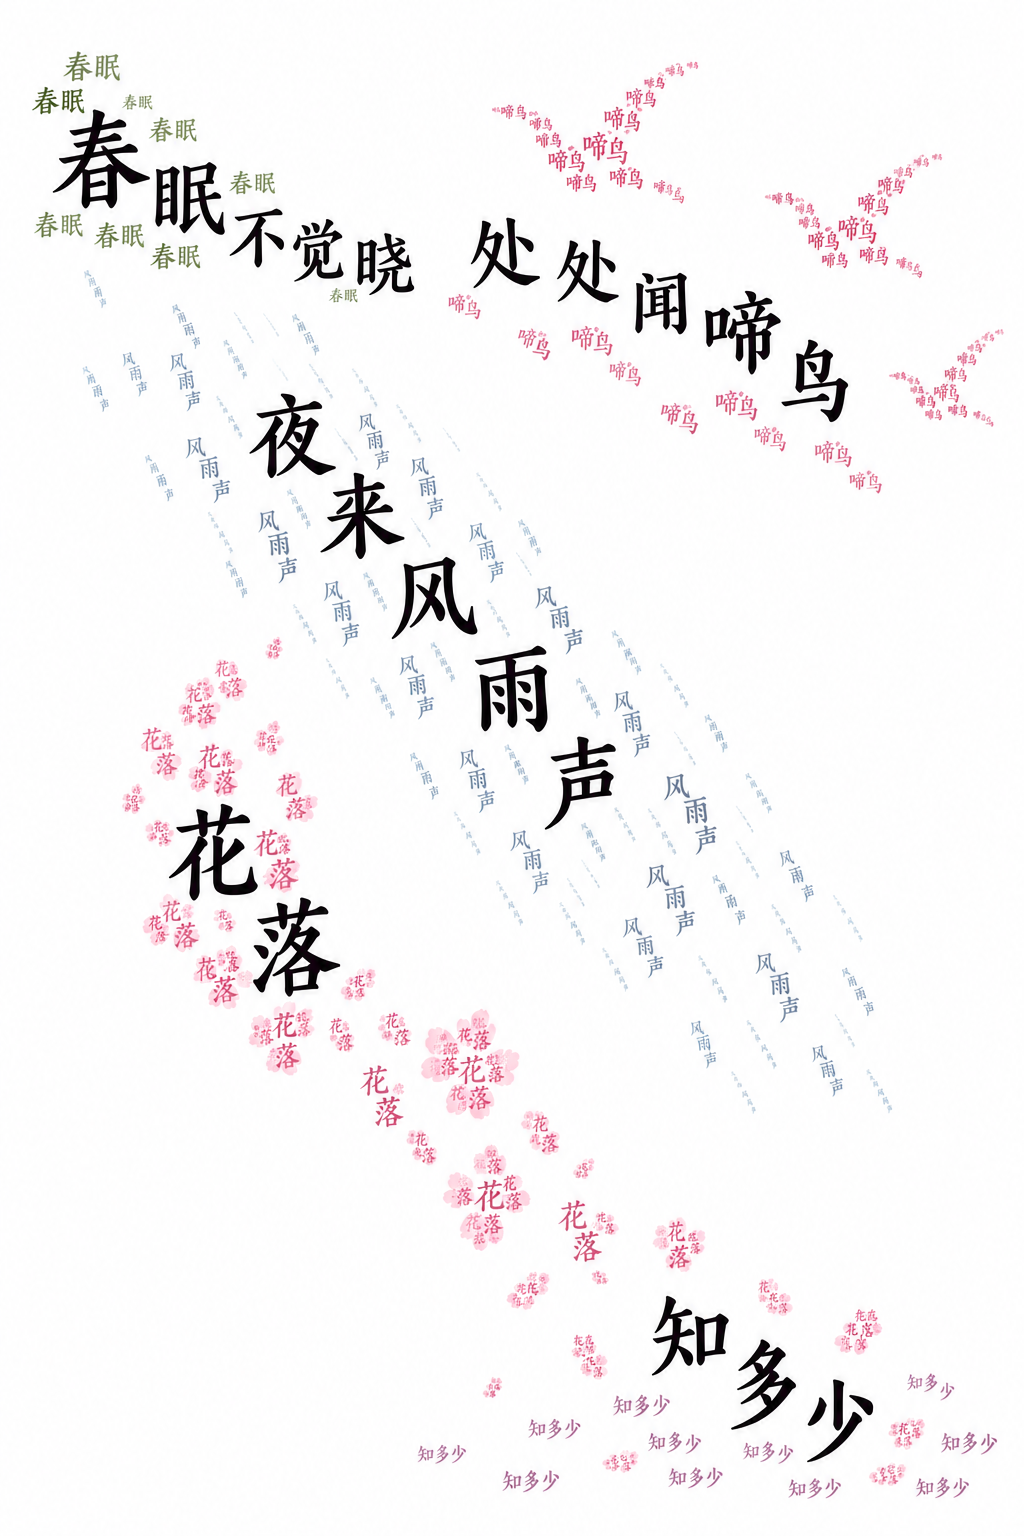
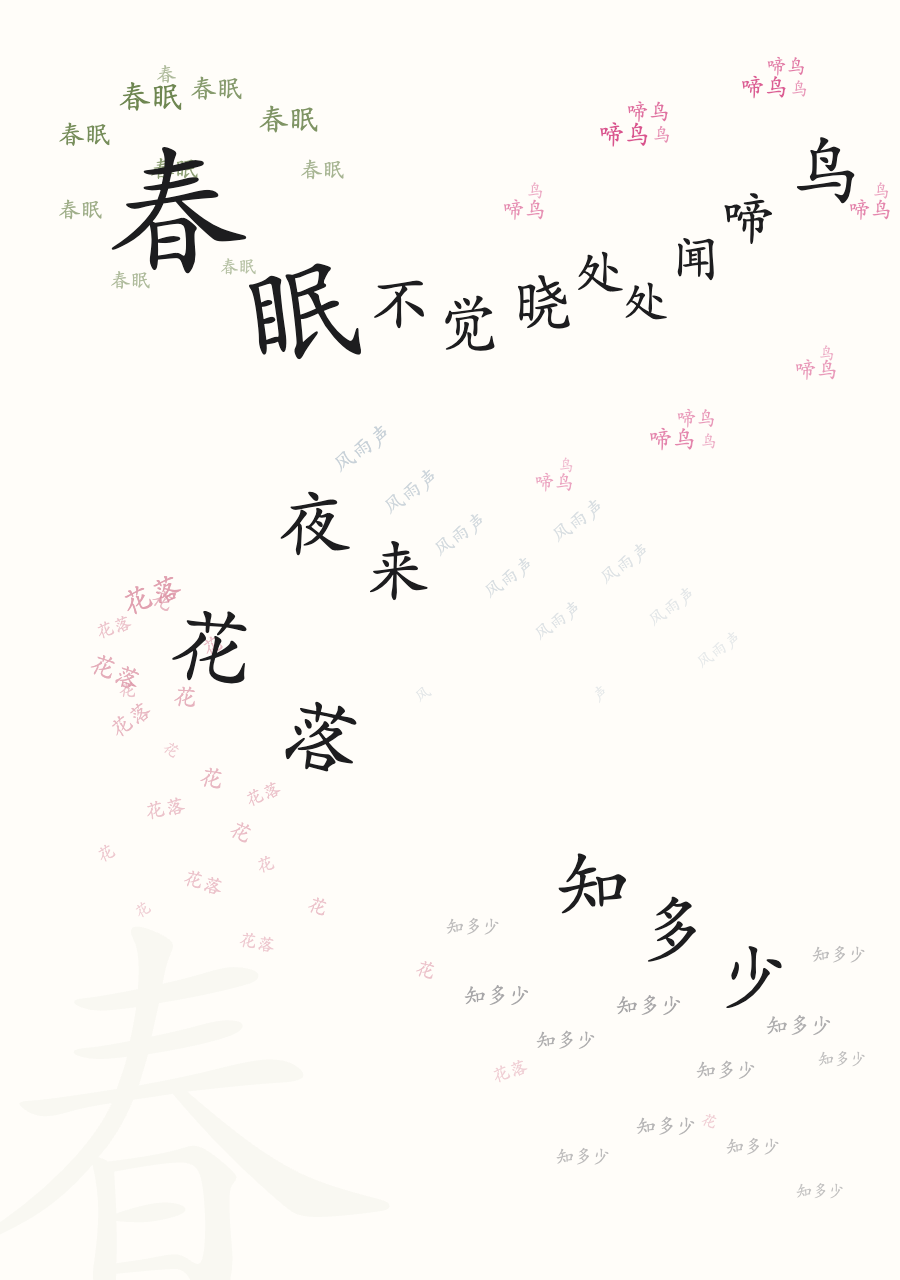
Replace README examples with artwork exported from supplied HTML

diff --git a/README.md b/README.md
@@ -31,31 +31,29 @@ git clone https://github.com/zhangswings/poetry-typography-skill.git ~/.codex/sk
 
 ## 参考案例
 
-以下是本次五首诗试作中选出的三个较好的构图版本，均由内置 imagegen 生成。**这些是构图参考，不是已通过全部检查的教学定稿。** 缩小后的纹理字难以逐字核对，使用前应查看原图；模型写进提示词的要求不等于图片已经满足要求。
+以下三张图片直接从[《诗词文字画·色彩与字群》HTML](examples/诗词文字画-色彩与字群.html) 中的 SVG 导出，保留文件里的配色、字群和布局。它们是构图参考，仍需按四项标准检查阅读路径与意象用字。
 
 ### 《春晓》· 孟浩然
 
 春眠不觉晓，处处闻啼鸟。夜来风雨声，花落知多少。
 
-鸟鸣散在上方，风雨斜穿画面，落花向下弯曲，“知多少”留在空白处。大字提供全文读序，较浅的小字重复对应意象。
+按字群区分春眠、鸟鸣、风雨和落花，用色彩与文字走向组织画面。
 
 ![春晓文字画](examples/chun-xiao.png)
 
-### 《江雪》· 柳宗元
+### 《江雪》· 单字领袖版
 
 千山鸟飞绝，万径人踪灭。孤舟蓑笠翁，独钓寒江雪。
 
-“千山”起伏成峰，“万径”伸向远处，山径与孤舟之间留出大片空白。没有把“鸟飞绝”画成飞鸟群。仍需重点检查“孤舟→蓑笠翁”的衔接是否足够清楚，以及极小纹理是否混入非文字笔画。
+用较大的主字引导阅读，以较小的对应字群构成山、径、舟和江面。
 
-![江雪文字画](examples/jiang-xue.png)
+![江雪单字领袖版](examples/jiang-xue-leader.png)
 
-### 《登鹳雀楼》· 王之涣
+### 《江雪》· 字群剪影版
 
-白日依山尽，黄河入海流。欲穷千里目，更上一层楼。
+让“千山”“孤舟”“蓑笠翁”等字群堆出景物体积，以淡墨和留白表现远近，“寒江”使用靛青。
 
-白日依山，黄河向海弯曲，末句自下而上登楼。此版已修复首稿漏掉“一”、把“欲穷千里目”铺成山形的问题。抽象愿望放在留白中，楼体用“层楼”构成。
-
-![登鹳雀楼文字画](examples/deng-guan-que-lou.png)
+![江雪字群剪影版](examples/jiang-xue.png)
 
 ## 检查标准与实际限制
 
@@ -64,13 +62,13 @@ git clone https://github.com/zhangswings/poetry-typography-skill.git ~/.codex/sk
 - 沿明确路径可以把全文一字不差地读下来。
 - 每个意象仅由指称或描写它的字构成，不能拿无关字填充。
 
-图像生成能较快探索构图，但文字准确性仍需人工核验。另两首试作没有作为展示案例上传：《九月九日忆山东兄弟》的“萸”反复出现错误字形；《春江花月夜》长卷出现局部意象用字错配。Skill 记录了这些问题，并要求如实标记未通过的草稿。连续定向返修无改善时，应说明限制并提出真实字体排版方案，不能谎称完成或无限重试。
+图像生成能较快探索构图，但文字准确性仍需人工核验。早期图像生成试作中，另两首没有作为展示案例上传：《九月九日忆山东兄弟》的“萸”反复出现错误字形；《春江花月夜》长卷出现局部意象用字错配。Skill 记录了这些问题，并要求如实标记未通过的草稿。连续定向返修无改善时，应说明限制并提出真实字体排版方案，不能谎称完成或无限重试。
 
 ## 文件
 
 - [SKILL.md](SKILL.md)：可复用工作流程与四项检查要求。
 - [构图提示词和案例说明](references/composition.md)：提示词骨架、三首短诗的投影方式及试作教训。
 - [agents/openai.yaml](agents/openai.yaml)：Codex 的技能显示信息。
-- [examples](examples)：README 展示的三张原图。
+- [examples](examples)：HTML 源文件、三张导出图片及保留的早期《登鹳雀楼》图片。
 
-诗词原文属于古典作品；示例图片为 AI 生成。仓库不包含工作区中的内部业务文件、账号信息或其他私人资料。
+诗词原文属于古典作品；当前展示图片从用户提供的 HTML 中以真实字体渲染导出。仓库不包含工作区中的内部业务文件、账号信息或其他私人资料。
